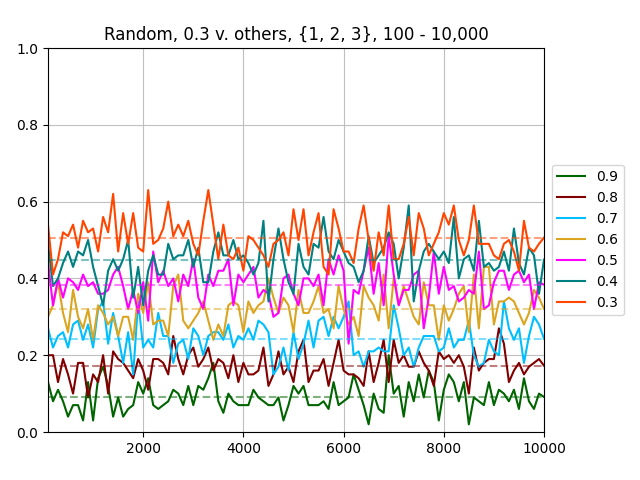
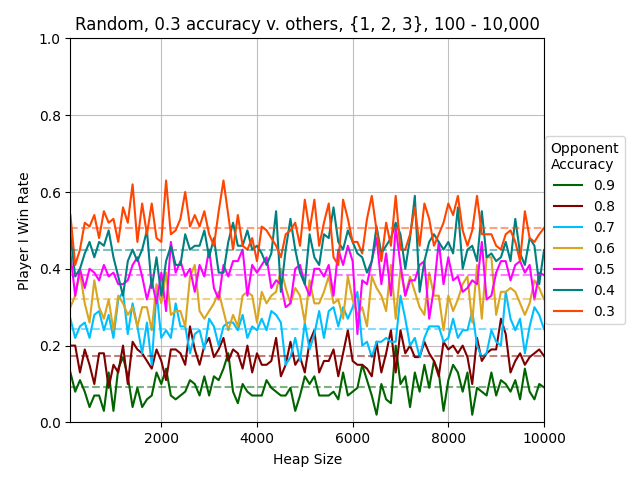
AWR graphs now have labels

diff --git a/graphing.py b/graphing.py
@@ -20,8 +20,11 @@ if __name__ == "__main__":
   """
   # Heatmap: in col. idx vs. in row idx
   for (frame, title) in zip(dfs, titles):
-    avgs = frame.iloc[104:112, 0:8]
-    title = f"Win Rate Deviance - {title}, 100 - 10,000"
+    vals = frame.iloc[2:104]
+    vals.columns = frame.iloc[1]
+    #avgs = frame.iloc[104:112, 0:8]
+    title = f"CV - {title}, 100 - 10,000"
+    #title = f"Win Rate Deviance - {title}, 100 - 10,000"
     #title = f"Avg. Win Rates - {title}, 100 - 10,000"
     avg_bare = avgs.iloc[1:, 1:].astype(float)
     players = [x / 10 for x in range(9, 2, -1)]
@@ -56,7 +59,7 @@ if __name__ == "__main__":
     ax.set_title(title)
     plt.savefig(f"graphs/{title}.png")
     plt.clf()
-    """
+  """
 #print(rolling)
 #""" Line graphs
   xax = range(100, 10001, 100)
@@ -68,11 +71,13 @@ if __name__ == "__main__":
       plt.gca().set_xlim([100, 10000])
       plt.gca().set_ylim([0.0, 1.0])
       plt.grid(axis='both', color='0.75')
+      plt.gca().set_xlabel("Heap Size", fontsize=10, labelpad=5)
+      plt.gca().set_ylabel("Player I Win Rate", fontsize=10, labelpad=5)
       #plt.axes().set_prop_cycle(color=colors)
       df = frame.iloc[:104, 8*x:8*(x+1)]
       #print(df.head())
       title = df.iloc[0, 0]
-      print(title)
+      #print(title)
       for i in range(1, 8):
         col = df.iloc[3:103, i].astype("float").to_list()
         #print(col[0:20])
@@ -85,10 +90,12 @@ if __name__ == "__main__":
       plt.hlines(y=df.iloc[102, 1:8].astype("float").T, 
                  xmin=100, xmax=10000, color=colors, 
                  label="__nolegend__", linestyle="--", alpha=0.5)
-      plt.title(title)
+      plt.title(title[:12] + 'accuracy ' + title[12:])
       plt.legend(['0.9', '0.8', '0.7', '0.6', '0.5', '0.4', '0.3'], 
-                bbox_to_anchor = (1.175, 0.5), loc='center right')
-      plt.subplots_adjust(left=0.075, right=0.85, top=0.9, bottom=0.1)
+                bbox_to_anchor = (1.185, 0.5), loc='center right',
+                title="Opponent\nAccuracy")
+      plt.subplots_adjust(left=0.11, right=0.85, top=0.92, bottom=0.12)
       plt.savefig(f"graphs/{title}.png")
       plt.clf()
-#  """
+# """
+  plt.close('all')
